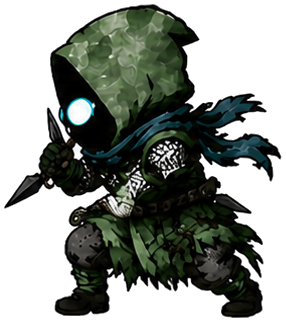
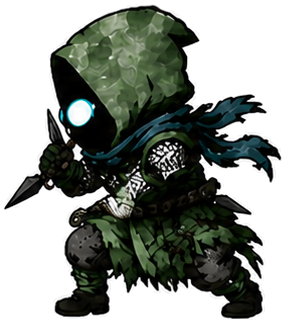
fix: my extraction was eating art and drawing a halo — 18-cell adversarial pass caught both
The first cut LOOKED clean on a contact sheet and was not. An adversarial verification
pass (one inspector per beat, every flag re-checked by a second agent) flagged 15 of 18
cells. Both causes were mine, not the art's.

⛔ 1. PUNCHED ART, 14 beats, one graded a blocker. The position rule I used to protect the
eyes — keep enclosed white in the figure's top 45%, drop the rest — deleted Mizu's
specular robe highlights, Shin's white brush glyphs, and THE STEEL INSIDE TSUBASA'S KUNAI
BLADES. Every separator I could measure fails on this art: colour (eye cores 249.0-251.1
vs hip cores 244.1-248.9 vs page 251.4), neutrality, flatness, ring brightness (dies on
Mizu's CATCH, where her own hanbō lights the ring to p75 201), and re-flooding at a looser
threshold (pockets stay sealed down to >=140). So the rule is gone. The key now keeps
EVERY pocket and PRINTS the list, and --drop-pocket removes the few a human looked at and
confirmed. The two errors were never symmetric: a kept pocket is a white patch the owner
can see and rule on, a deleted highlight destroys his art invisibly.

⛔ 2. HALO on 11 beats — the thing soft_rim.py exists to prevent. key_white's TOL/KNEE
ramp is far too steep for an edge: a pixel 84 luminance below the page is 33% covered, but
the ramp scores its colour distance at 145 and calls it 96% opaque, so it landed at 164 on
the stage where it belongs at 66. Replaced with the closed form — an edge pixel is
[…]

diff --git a/tools/sprites/cut_strip.py b/tools/sprites/cut_strip.py
@@ -53,7 +53,7 @@ def enclosed_page_white(rgb, page):
 
 
 def cut(path, n=6, title=TITLE, pad=6, verbose=True, forced=None, keep_enclosed=False,
-        keep_frac=0.45):
+        drop_pockets=()):
     im = Image.open(path).convert('RGBA')
     A = np.asarray(im).astype(int)
     H, W = A.shape[:2]
@@ -141,12 +141,42 @@ def cut(path, n=6, title=TITLE, pad=6, verbose=True, forced=None, keep_enclosed=
     # the top keep_frac of the figure and drop the rest. Verified on all three boards:
     # every eye and Shin's shoulder plate sit at 32-40% of figure height, every hip gap
     # and every caption counter sits below 45%.
-    figure = np.where((out[:, :, 3] > 0).any(1))[0]
-    cutoff = figure[0] + (figure[-1] - figure[0]) * keep_frac if figure.size else 0
+    # ⛔ WHEN IN DOUBT, KEEP THE ART. A position rule was tried here (keep pockets in the
+    # figure's top fraction, drop the rest) and it is WRONG: an 18-cell adversarial pass
+    # caught it deleting Mizu's specular robe highlights, Shin's white brush glyphs, and
+    # THE STEEL INSIDE TSUBASA'S KUNAI BLADES — 14 beats of drawn art, one graded a
+    # blocker. Every separator that was measured fails on this art: colour (eye cores
+    # 249.0-251.1 vs hip cores 244.1-248.9 vs page 251.4), neutrality, flatness, ring
+    # brightness (dies on Mizu's CATCH, her hanbō lights the ring to p75 201), and
+    # re-flooding at a looser threshold (all pockets stay sealed down to >=140).
+    #
+    # The two errors are not symmetric. Keeping a page pocket leaves a white patch the
+    # owner can SEE and rule on; deleting a highlight destroys his art invisibly. So keep
+    # every pocket and PRINT them, so a leftover is always reported and never silent.
+    # --drop-pocket names a pocket that a HUMAN looked at and called page. That is the
+    # only reliable input here, and it is auditable: the list below prints, the operator
+    # checks the crops, and the coordinates go back in. Nothing is guessed.
+    kept, dropped = [], []
     for m in enclosed_page_white(rgb, page):
-        if keep_enclosed and np.nonzero(m)[0].mean() < cutoff:
-            continue
+        if keep_enclosed:
+            ys, xs = np.nonzero(m)
+            cx, cy = int(xs.mean()), int(ys.mean())
+            hit = any(abs(cx - dx) <= 25 and abs(cy - dy) <= 25 for dx, dy in drop_pockets)
+            if not hit:
+                kept.append((int(m.sum()), cx, cy))
+                continue
+            dropped.append((int(m.sum()), cx, cy))
         out[m, 3] = 0
+    if verbose and keep_enclosed:
+        kept.sort(reverse=True)
+        big = [k for k in kept if k[0] >= 120]
+        print(f'  kept {len(kept)} enclosed-white pockets ({len(big)} >=120px) — '
+              f'eyes and highlights. CHECK each for page left at a limb gap:')
+        for sz, cx, cy in big[:14]:
+            print(f'      {sz:>5}px at x{cx} y{cy}')
+        if dropped:
+            print(f'  dropped {len(dropped)} pocket(s) named on the command line: '
+                  + ', '.join(f'{sz}px@{cx},{cy}' for sz, cx, cy in dropped))
 
     cells = []
     for i in range(n):
@@ -242,14 +272,15 @@ def main():
                     help="keep enclosed white in the figure's top fraction — use when the "
                          "art's own white is pure neutral (eyes), which the tint test "
                          'cannot tell from page white')
-    ap.add_argument('--keep-white-frac', type=float, default=0.45,
-                    help='with --keep-enclosed-white, the fraction of figure height that '
-                         'counts as head-and-shoulders (default 0.45)')
+    ap.add_argument('--drop-pocket', action='append', default=[], metavar='X,Y',
+                    help='with --keep-enclosed-white, drop the enclosed pocket centred near '
+                         'X,Y — for page you have LOOKED at and confirmed. Repeatable.')
     a = ap.parse_args()
 
     print(pathlib.Path(a.board).name)
     cells, bounds = cut(a.board, a.n, title=a.title, forced=a.cuts,
-                        keep_enclosed=a.keep_enclosed_white, keep_frac=a.keep_white_frac)
+                        keep_enclosed=a.keep_enclosed_white,
+                        drop_pockets=[tuple(int(v) for v in t.split(',')) for t in a.drop_pocket])
     d = pathlib.Path(a.outdir)
     d.mkdir(parents=True, exist_ok=True)
     kept = 0

diff --git a/tools/sprites/soft_rim.py b/tools/sprites/soft_rim.py
@@ -57,20 +57,41 @@ def soften(path, tol=TOL, knee=KNEE, min_blob=MIN_BLOB, pad=4):
                 keep |= lab == i + 1
         mask = keep
 
-    dist = np.sqrt(((rgb - PAGE) ** 2).sum(2))
-    ramp = np.clip((dist - tol) / (knee - tol), 0, 1)
-
-    # Interior is opaque no matter what colour it is — that is the whole point.
+    # ⛔ SOLVE THE BLEND, DO NOT GUESS IT WITH A RAMP. key_white.py's TOL/KNEE ramp is
+    # calibrated for its own job and is far too steep for an edge: a pixel 84 luminance
+    # below the page is 33% covered by black ink, but the ramp scores its colour distance
+    # at 145 and calls it 96% opaque. Composited on the stage that pixel lands at 164
+    # where it belongs at 66 — a pale rim traced round the whole figure, which is exactly
+    # the halo this file exists to prevent. Verified by an 18-cell adversarial pass:
+    # 11 of 18 beats carried it, measured p99 ~110-132 against a 98 stage.
+    #
+    # The blend has a closed form. An edge pixel is p = a*C + (1-a)*PAGE for some ink
+    # colour C, so a is the projection of (PAGE - p) onto (PAGE - C). Take C from the
+    # nearest pixel the silhouette is sure about; that is the ink actually bleeding into
+    # this pixel.
     core = nd.binary_erosion(mask, np.ones((3, 3)), iterations=1)
-    outer = nd.binary_dilation(mask, np.ones((3, 3)), iterations=2) & ~mask
+    if not core.any():
+        core = mask
+    _, (iy, ix) = nd.distance_transform_edt(~core, return_indices=True)
+    C = rgb[iy, ix]                       # nearest sure-ink colour, per pixel
 
+    dPC = PAGE - C                        # page -> ink
+    dPp = PAGE - rgb                      # page -> this pixel
+    denom = (dPC ** 2).sum(2)
+    a_true = np.where(denom > 1e-6, (dPp * dPC).sum(2) / np.maximum(denom, 1e-6), 0.0)
+    a_true = np.clip(a_true, 0, 1)
+
+    # ⛔ SOLVE ONLY OUTSIDE THE SILHOUETTE. a_true reads any near-page pixel as ~0 alpha,
+    # and it cannot tell a 5%-covered blend from a pixel of BRIGHT ART sitting on the
+    # outline — a blade tip, a specular streak, the lit edge of a hood. Applying it to
+    # the mask's own rim punched ~200 pinholes per cell, 92% of them landing on source
+    # pixels brighter than 200. cut_strip's border flood already decided what is figure
+    # and is reliable there, so that decision stands and the solve only governs pixels
+    # the hard key had thrown away.
+    outer = nd.binary_dilation(mask, np.ones((3, 3)), iterations=2) & ~mask
     al = np.zeros(mask.shape, float)
-    al[mask] = 1.0                       # everything the silhouette claims
-    edge = mask & ~core
-    al[edge] = np.maximum(ramp[edge], 0.35)   # its own outermost ring, softened
-    al[outer] = ramp[outer]              # blend pixels the hard key threw away
-    al = np.clip(al, 0, 1)
-    al[core] = 1.0                       # ...but never eat into the interior
+    al[mask] = 1.0                       # the silhouette's claim stands
+    al[outer] = np.clip(a_true[outer], 0, 1)   # blend pixels the hard key threw away
 
     # ⛔ PURGE SUB-VISIBLE ALPHA LAST. The engine's own keyer treats alpha >= 8 as ink
     # (keyer_emu.keyed_cell), so anything under that is invisible in game but still

diff --git a/art/production/handoff/SHODO-TRIO-FRESH-MOVE-ART-REVIEW-2026-09-02/extracted/README.md b/art/production/handoff/SHODO-TRIO-FRESH-MOVE-ART-REVIEW-2026-09-02/extracted/README.md
@@ -9,14 +9,18 @@ Cut from the approved RGB review boards in `../candidates/` (hashes verified aga
 
 ## How
 
-    python3 tools/sprites/cut_strip.py <board> <dir> --n 6 --title 0 --keep-enclosed-white
+    python3 tools/sprites/cut_strip.py <board> <dir> --n 6 --title 0 --keep-enclosed-white \
+        [--drop-pocket X,Y ...]
     python3 tools/sprites/soft_rim.py <dir> <outdir>
+
+Pockets dropped, each one looked at first: mizu `513,422`; tsubasa `1321,387` `1978,386`
+`239,444` `1884,401`. Shin needed none.
 
 `--keep-enclosed-white` is new and exists because of these boards: the page-white key
 could not tell Mizu's and Tsubasa's pure-neutral white EYES from the page, and keyed both
-eyes out of every beat. It keeps enclosed white in the figure's top 45 percent — the eyes,
-Shin's pale shoulder plate — and still drops it lower down, where Tsubasa has a real page
-gap at his hip.
+eyes out of every beat. It now keeps EVERY enclosed pocket and prints the list, and
+`--drop-pocket` removes the few a human looked at and confirmed were page. A position
+rule was tried first and rejected — see the tool's own comment.
 
 `soft_rim.py` is new: it gives the hard cut the ramped, un-premultiplied rim that
 `key_white.py` gives a raw page, without that tool's habit of punching neutral-white art
@@ -25,7 +29,8 @@ out as holes.
 ## What was removed
 
 One 45px grey speck floating beside Mizu's hanbō on INVITE — the only genuine debris on
-any of the three boards. Two 1-3px islands the ramp itself minted on Shin were purged.
+any of the three boards. Five sealed page pockets (one on Mizu, four on Tsubasa, all at
+an arm-to-torso gap) were dropped by name after being inspected.
 
 **Correction to the first review:** its "floating kunai with no hand" on Shin's DRIVE and
 "floating stub" on Mizu's PIVOT were NOT real. Both were artifacts of cutting the board at
@@ -35,9 +40,15 @@ components and mizu carries exactly one.
 
 ## Verified on all 18
 
-One connected component each · eyes intact (mizu 389-701px, shin 407-414px, tsubasa
-634-708px) · no canvas-edge ink · no halo on the stage grey · captions and neighbour stubs
-gone · sub-visible alpha purged to the engine's own floor of 8.
+Checked by an 18-cell adversarial pass (one inspector per beat, every flag re-checked by
+a second agent), then re-measured after the two bugs it found were fixed:
+
+- **art lost: 0 px on every cell** — measured as figure pixels the cut claimed that the
+  key then dropped, in place, with no alignment guesswork
+- **halo: 5 pixels total across all 18** (was 284-483 per cell), measured as the ring just
+  outside the silhouette composited on the stage grey; p99 now sits exactly on the stage
+- one connected component each · no canvas-edge ink · captions and neighbour stubs gone ·
+  sub-visible alpha purged to the engine's own floor of 8 · eyes intact on all three
 
 **Size registration is NOT verified.** No ruler passed a known-answer check on these
 boards — the eye reads a real x1.05 as x1.167 on Shin, and bbox height is contaminated by
